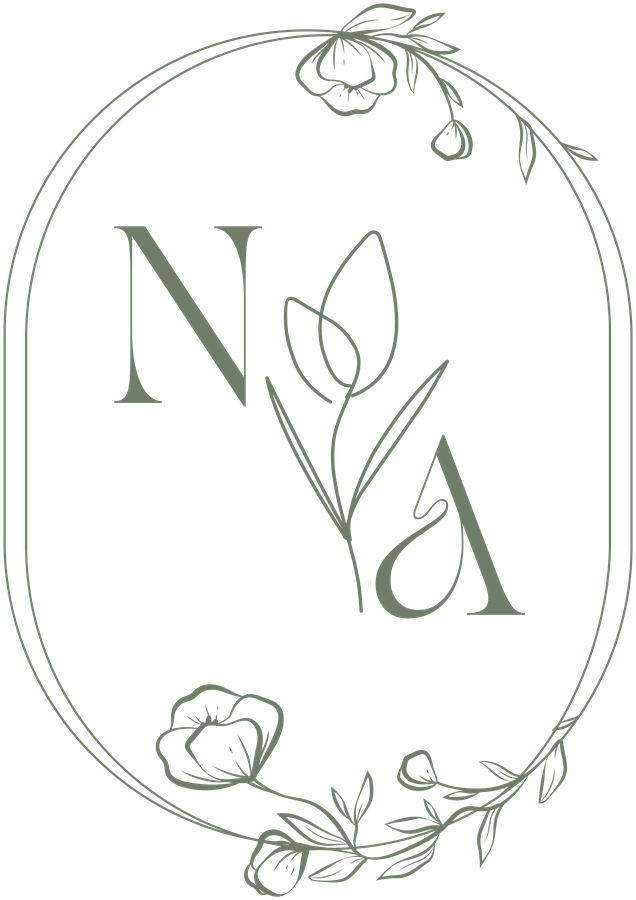
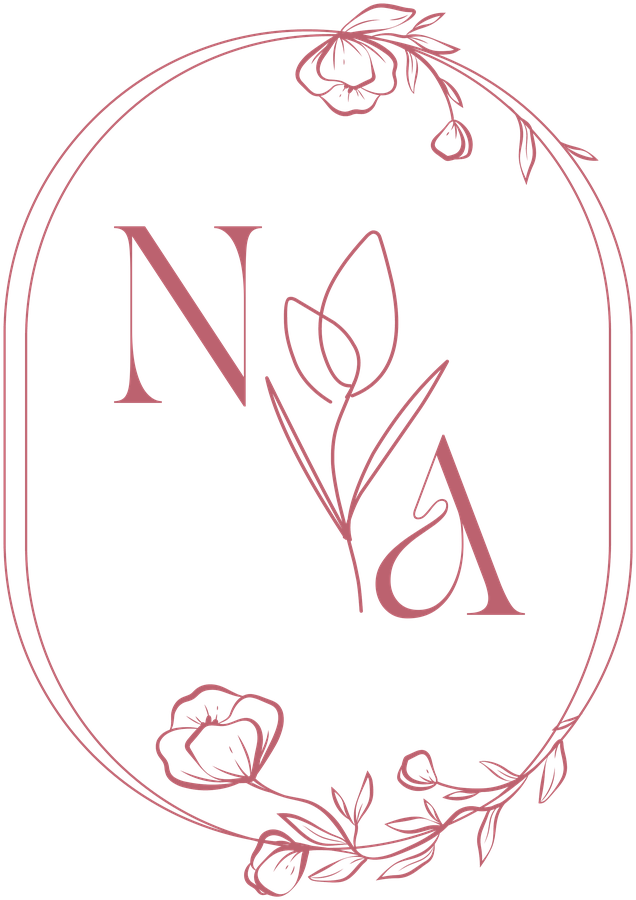
Troca os detalhes do convite de verde para o rosa #E9A6B0
O rosa passa a ser a cor dos detalhes em todo o convite: tela de
abertura, botoes, icones, titulos, rotulos, losangos, monograma e
brasao. Nenhum elemento de interface continua verde.

Como #E9A6B0 tem contraste 1.9:1 sobre o fundo creme, textos nele
seriam ilegiveis. Os textos e botoes usam o mesmo rosa escurecido e
levemente dessaturado, mantendo o matiz 351 graus: #BC626F em botoes,
icones e nas artes de linha fina, e #9F5661 em textos (5.1:1). O tom
puro pedido fica nos fundos e elementos decorativos, onde o contraste
nao e um problema.

O monograma, o brasao e o lettering do nome foram regerados em rosa a
partir dos originais. O monograma da capa usa o tom mais firme porque
no tom puro ele sumia sobre o vestido branco da noiva.

As bolinhas da paleta no manual dos convidados continuam mostrando as
cores reais do casamento, verde incluido: ali a informacao e a
referencia de traje para os convidados, nao a cor da interface.

Claude-Session: https://claude.ai/code/session_01XM2Pge13phMXJk56283Hb1

diff --git a/index.html b/index.html
@@ -9,26 +9,30 @@
   @import url('https://fonts.googleapis.com/css2?family=Cormorant+Garamond:ital,wght@0,400;0,500;0,600;1,400;1,500&family=Arapey:ital@0;1&family=Italianno&family=Jost:wght@300;400;500;600&display=swap');
 
   :root{
-    /* Paleta oficial da identidade visual de Nailla e Adem */
+    /* Paleta oficial da identidade visual de Nailla e Adem.
+       O rosa #E9A6B0 e a cor dos detalhes do convite; os tons
+       mais escuros sao o mesmo rosa, so que legiveis em texto. */
     --white:#ffffff;
     --cream:#fdfaf3;
     --card:#ffffff;
-    --green:#707D69;        /* verde principal */
-    --green-dark:#59654f;
-    --green-pale:#CAD4AF;   /* verde claro */
-    --green-wash:#eef1e6;
-    --rose:#F1D3D4;         /* rosa claro */
-    --rose-soft:#FCD9DF;
-    --rose-mid:#EEBFBB;
-    --rose-deep:#E9A6B0;    /* rosa */
-    --butter:#F7E6A8;       /* amarelo manteiga */
+    --rose:#E9A6B0;         /* rosa principal — fundos e decoracao */
+    --rose-mid:#BC626F;     /* botoes e icones */
+    --rose-dark:#9F5661;    /* textos e titulos */
+    --rose-soft:#F1D3D4;    /* rosa claro */
+    --rose-pale:#FCD9DF;    /* rosa mais claro */
+    --rose-wash:#fceff1;    /* fundo suave */
+    --rose-mist:#EEBFBB;
+    --green:#707D69;        /* verde da paleta do casamento (dress code) */
+    --green-pale:#CAD4AF;
+    --butter:#F7E6A8;
     --butter-soft:#FDDE86;
-    --butter-deep:#EACB63;  /* dourado */
+    --butter-deep:#EACB63;
     --peach:#FED4AA;
     --text:#3f4238;
     --muted:#8b8d7e;
-    --line:#e9e5d8;
+    --line:#ece4e0;
   }
+
   *{margin:0;padding:0;box-sizing:border-box;}
   html{scroll-behavior:smooth;}
 
@@ -44,7 +48,7 @@
   /* ---------- PRELOADER ---------- */
   #preloader{
     position:fixed;inset:0;z-index:999;
-    background:var(--green);
+    background:var(--rose);
     display:flex;flex-direction:column;align-items:center;justify-content:center;
     color:#fff;cursor:pointer;text-align:center;padding:0 30px;
     transition:opacity .8s ease, visibility .8s ease;
@@ -75,9 +79,9 @@
 
   /* ---------- FOTOS / PLACEHOLDER ---------- */
   .ph{
-    background:linear-gradient(140deg,var(--green-pale) 0%,var(--rose-soft) 55%,var(--butter) 100%);
+    background:linear-gradient(140deg,var(--rose-pale) 0%,var(--rose-soft) 55%,var(--butter) 100%);
     display:flex;align-items:center;justify-content:center;
-    color:var(--green-dark);font-size:10.5px;letter-spacing:3px;text-align:center;padding:20px;
+    color:var(--rose-dark);font-size:10.5px;letter-spacing:3px;text-align:center;padding:20px;
   }
 
   /* ---------- HERO ---------- */
@@ -93,23 +97,23 @@
     text-align:center;padding:0 30px 92px 30px;
   }
   .hero-mono{width:66px;height:auto;margin-bottom:10px;opacity:.95;}
-  .hero-mono-text{font-family:'Italianno',cursive;font-size:40px;color:var(--green-dark);line-height:1;margin-bottom:6px;}
+  .hero-mono-text{font-family:'Italianno',cursive;font-size:40px;color:var(--rose-dark);line-height:1;margin-bottom:6px;}
   .hero-names-img{width:min(82vw,360px);height:auto;display:block;margin:0 auto;}
   .hero-names{
     font-family:'Cormorant Garamond',serif;font-weight:500;
     font-size:clamp(34px,10.5vw,44px);color:#2f3229;line-height:1.1;
   }
-  .hero-names .amp{font-family:'Italianno',cursive;color:var(--green-dark);font-size:.82em;padding:0 6px;}
+  .hero-names .amp{font-family:'Italianno',cursive;color:var(--rose-dark);font-size:.82em;padding:0 6px;}
   .hero-loc{
-    font-family:'Jost',sans-serif;font-size:11px;letter-spacing:4px;color:var(--green-dark);margin-top:12px;font-weight:500;
+    font-family:'Jost',sans-serif;font-size:11px;letter-spacing:4px;color:var(--rose-dark);margin-top:12px;font-weight:500;
   }
 
   /* ---------- GENERIC SECTION ---------- */
   section{padding:64px 32px;text-align:center;position:relative;}
-  .eyebrow{font-family:'Jost',sans-serif;font-size:11.5px;letter-spacing:3.5px;color:var(--green);font-weight:500;margin-bottom:8px;text-transform:uppercase;}
+  .eyebrow{font-family:'Jost',sans-serif;font-size:11.5px;letter-spacing:3.5px;color:var(--rose-dark);font-weight:500;margin-bottom:8px;text-transform:uppercase;}
   .title{font-family:'Cormorant Garamond',serif;font-size:32px;color:var(--text);font-weight:500;}
-  .title em{font-style:italic;color:var(--green-dark);font-weight:500;}
-  .diamond-divider{width:7px;height:7px;background:var(--rose-deep);transform:rotate(45deg);margin:20px auto;}
+  .title em{font-style:italic;color:var(--rose-dark);font-weight:500;}
+  .diamond-divider{width:7px;height:7px;background:var(--rose);transform:rotate(45deg);margin:20px auto;}
 
   /* floating card */
   .card{
@@ -123,7 +127,7 @@
   .verse-card{
     font-family:'Cormorant Garamond',serif;font-style:italic;font-size:18px;line-height:1.7;color:#55584c;
   }
-  .verse-ref{font-family:'Jost';font-style:normal;font-size:11px;letter-spacing:2.5px;color:var(--green);margin-top:14px;font-weight:500;}
+  .verse-ref{font-family:'Jost';font-style:normal;font-size:11px;letter-spacing:2.5px;color:var(--rose-dark);margin-top:14px;font-weight:500;}
 
   /* ---------- DATA / LOCAL ---------- */
   .datalocal{display:flex;margin-top:34px;}
@@ -140,10 +144,10 @@
     display:inline-block;background:var(--butter);color:#7a6420;font-family:'Jost',sans-serif;
     font-size:11px;letter-spacing:2.5px;font-weight:500;padding:7px 18px;border-radius:30px;margin-bottom:18px;
   }
-  .venue-time{font-family:'Cormorant Garamond',serif;font-style:italic;font-size:24px;color:var(--green-dark);margin-bottom:4px;}
+  .venue-time{font-family:'Cormorant Garamond',serif;font-style:italic;font-size:24px;color:var(--rose-dark);margin-bottom:4px;}
   .venue-name{font-family:'Cormorant Garamond',serif;font-size:27px;color:var(--text);margin-bottom:10px;}
   .venue-addr{font-size:13px;color:var(--muted);line-height:1.7;margin-bottom:24px;}
-  .venue-note{font-family:'Jost',sans-serif;font-size:11.5px;color:var(--green-dark);background:var(--green-wash);border-radius:12px;padding:12px 16px;margin-bottom:24px;line-height:1.7;}
+  .venue-note{font-family:'Jost',sans-serif;font-size:11.5px;color:var(--rose-dark);background:var(--rose-wash);border-radius:12px;padding:12px 16px;margin-bottom:24px;line-height:1.7;}
 
   .btn{
     display:inline-flex;align-items:center;gap:10px;
@@ -152,7 +156,7 @@
   }
   .btn svg{width:15px;height:15px;flex-shrink:0;}
   .btn-filled{
-    background:var(--green);color:#fff;border-color:var(--green);
+    background:var(--rose-mid);color:#fff;border-color:var(--rose-mid);
     font-weight:500;padding:16px 22px;font-size:11px;letter-spacing:1.4px;
   }
   .btn-filled svg{stroke:#fff;}
@@ -174,7 +178,7 @@
   .manual-card{margin-top:-56px;}
   .tip{display:flex;flex-direction:column;align-items:center;padding:22px 6px;}
   .tip:not(:last-child){border-bottom:1px solid var(--line);}
-  .tip svg{width:26px;height:26px;stroke:var(--green);margin-bottom:14px;}
+  .tip svg{width:26px;height:26px;stroke:var(--rose-mid);margin-bottom:14px;}
   .tip p{font-size:13.5px;line-height:1.8;color:#5d6053;max-width:300px;}
   .tip b{color:var(--text);font-weight:500;}
 
@@ -191,36 +195,36 @@
     border:1px solid var(--line);border-radius:30px;padding:9px 20px;margin-top:8px;
     text-decoration:none;background:none;font-family:'Jost';cursor:pointer;
   }
-  .music-note svg{width:13px;height:13px;stroke:var(--green);}
+  .music-note svg{width:13px;height:13px;stroke:var(--rose-mid);}
 
   /* ---------- PRESENTES ---------- */
-  .pix-title{font-family:'Jost',sans-serif;font-size:11.5px;letter-spacing:2.5px;color:var(--green);margin:34px 0 22px 0;font-weight:500;
+  .pix-title{font-family:'Jost',sans-serif;font-size:11.5px;letter-spacing:2.5px;color:var(--rose-dark);margin:34px 0 22px 0;font-weight:500;
     display:flex;align-items:center;gap:14px;}
   .pix-title::before,.pix-title::after{content:'';flex:1;height:1px;background:var(--line);}
   .pix-box{
-    background:var(--green-wash);border-radius:16px;padding:22px 20px;margin-top:6px;
+    background:var(--rose-wash);border-radius:16px;padding:22px 20px;margin-top:6px;
   }
   .pix-key{font-family:'Jost';font-size:15px;color:var(--text);font-weight:500;letter-spacing:.5px;word-break:break-all;}
   .copy-btn{
     display:inline-flex;align-items:center;gap:8px;margin-top:16px;
-    background:var(--green-dark);color:#fff;border:none;border-radius:30px;
+    background:var(--rose-mid);color:#fff;border:none;border-radius:30px;
     padding:11px 24px;font-size:11px;letter-spacing:2px;font-family:'Jost';cursor:pointer;
   }
   .copy-btn svg{width:13px;height:13px;stroke:#fff;}
-  .signature{font-family:'Italianno',cursive;font-size:30px;color:var(--green-dark);margin-top:22px;}
+  .signature{font-family:'Italianno',cursive;font-size:30px;color:var(--rose-dark);margin-top:22px;}
   .small-note{font-family:'Jost',sans-serif;font-size:11px;color:var(--muted);margin-top:8px;}
 
   /* ---------- RSVP ---------- */
   .rsvp-card p{font-size:13.5px;line-height:1.9;color:#5d6053;margin-bottom:26px;}
-  .rsvp-card b{color:var(--green-dark);}
+  .rsvp-card b{color:var(--rose-dark);}
 
   /* ---------- FOOTER ---------- */
   footer{padding:60px 32px 50px 32px;text-align:center;}
   footer .mono{width:128px;margin-bottom:18px;opacity:.9;}
-  footer .mono-text{font-family:'Italianno',cursive;font-size:44px;color:var(--green-dark);line-height:1;margin-bottom:10px;}
+  footer .mono-text{font-family:'Italianno',cursive;font-size:44px;color:var(--rose-dark);line-height:1;margin-bottom:10px;}
   footer .names-img{width:min(64vw,260px);height:auto;margin:0 auto;display:block;}
   footer .names{font-family:'Cormorant Garamond',serif;font-size:24px;color:var(--text);}
-  footer .names em{font-family:'Italianno',cursive;font-style:normal;color:var(--green-dark);padding:0 4px;}
+  footer .names em{font-family:'Italianno',cursive;font-style:normal;color:var(--rose-dark);padding:0 4px;}
   footer .date{font-family:'Jost',sans-serif;font-size:11px;letter-spacing:3px;color:var(--muted);margin-top:8px;}
   footer .verse{font-family:'Cormorant Garamond',serif;font-style:italic;font-size:13.5px;color:var(--muted);margin-top:18px;}
 
@@ -235,7 +239,7 @@
     opacity:0;transform:translateY(10px);transition:opacity .6s ease, transform .6s ease;
   }
   #floatMusic.show{opacity:1;transform:translateY(0);}
-  #floatMusic svg{width:14px;height:14px;stroke:var(--green);}
+  #floatMusic svg{width:14px;height:14px;stroke:var(--rose-mid);}
 
   /* player do YouTube escondido */
   #ytwrap{position:fixed;width:1px;height:1px;opacity:0;pointer-events:none;bottom:0;left:0;overflow:hidden;}
@@ -354,8 +358,8 @@
           <div class="sw"><div class="dot" style="background:var(--green);"></div><div class="nm">Verde</div></div>
           <div class="sw"><div class="dot" style="background:var(--butter-deep);"></div><div class="nm">Dourado</div></div>
           <div class="sw"><div class="dot" style="background:var(--butter);"></div><div class="nm">Manteiga</div></div>
-          <div class="sw"><div class="dot" style="background:var(--rose-mid);"></div><div class="nm">Rosa</div></div>
-          <div class="sw"><div class="dot" style="background:var(--rose);"></div><div class="nm">Rosa claro</div></div>
+          <div class="sw"><div class="dot" style="background:var(--rose);"></div><div class="nm">Rosa</div></div>
+          <div class="sw"><div class="dot" style="background:var(--rose-soft);"></div><div class="nm">Rosa claro</div></div>
         </div>
       </div>
 

diff --git a/README.md b/README.md
@@ -9,17 +9,24 @@ Convite digital em página única (`index.html`), feito para abrir no celular.
 
 Tudo foi tirado do PDF em `originais/Identidade Visual Nailla e Adem.pdf`.
 
-**Paleta oficial**
+**Cor dos detalhes: rosa `#E9A6B0`**
 
-| Cor | Código | Onde aparece |
-|---|---|---|
-| Verde | `#707D69` | Cor principal: abertura, botões, títulos |
-| Verde claro | `#CAD4AF` | Fundos suaves |
-| Dourado | `#EACB63` | Detalhes |
-| Amarelo manteiga | `#F7E6A8` / `#FDDE86` | Selo "Cerimônia & Recepção" |
-| Rosa | `#EEBFBB` / `#E9A6B0` | Losangos e acentos |
-| Rosa claro | `#F1D3D4` / `#FCD9DF` | Fundos suaves |
-| Pêssego | `#FED4AA` | Acento |
+Todos os detalhes do convite estão nesse rosa. Como ele é claro demais para
+texto sobre fundo claro, os textos e botões usam o **mesmo rosa escurecido**,
+mantendo o matiz — não é outra cor, é o mesmo tom em intensidades diferentes:
+
+| Tom | Onde é usado |
+|---|---|
+| `#E9A6B0` | Tela de abertura, losangos, fundos — o tom pedido, puro |
+| `#BC626F` | Botões, ícones, monograma e brasão |
+| `#9F5661` | Textos, títulos em itálico, rótulos, nome do casal |
+
+**Paleta completa do casamento** (aparece nas bolinhas do manual dos convidados,
+como referência de traje para os convidados):
+
+`#707D69` verde · `#CAD4AF` verde claro · `#EACB63` dourado ·
+`#F7E6A8` e `#FDDE86` manteiga · `#E9A6B0` e `#EEBFBB` rosa ·
+`#F1D3D4` e `#FCD9DF` rosa claro · `#FED4AA` pêssego
 
 **Fontes**
 
@@ -37,9 +44,8 @@ Tudo foi tirado do PDF em `originais/Identidade Visual Nailla e Adem.pdf`.
 |---|---|
 | `foto-1.jpg` | Capa, tela inteira |
 | `foto-2.jpg` | Antes do "Manual dos convidados" |
-| `monograma.png` | Abertura e capa (verde, fundo transparente) |
-| `monograma-rosa.png` | Mesma arte em rosa, caso queiram trocar |
-| `brasao.png` | Rodapé — monograma com a moldura floral |
+| `monograma.png` | Abertura e capa (rosa, fundo transparente) |
+| `brasao.png` | Rodapé — monograma com a moldura floral, em rosa |
 | `nome-casal.png` | "Nailla e Adem" na fonte Aerotis |
 
 Os arquivos que você enviou estão preservados em `originais/`.
